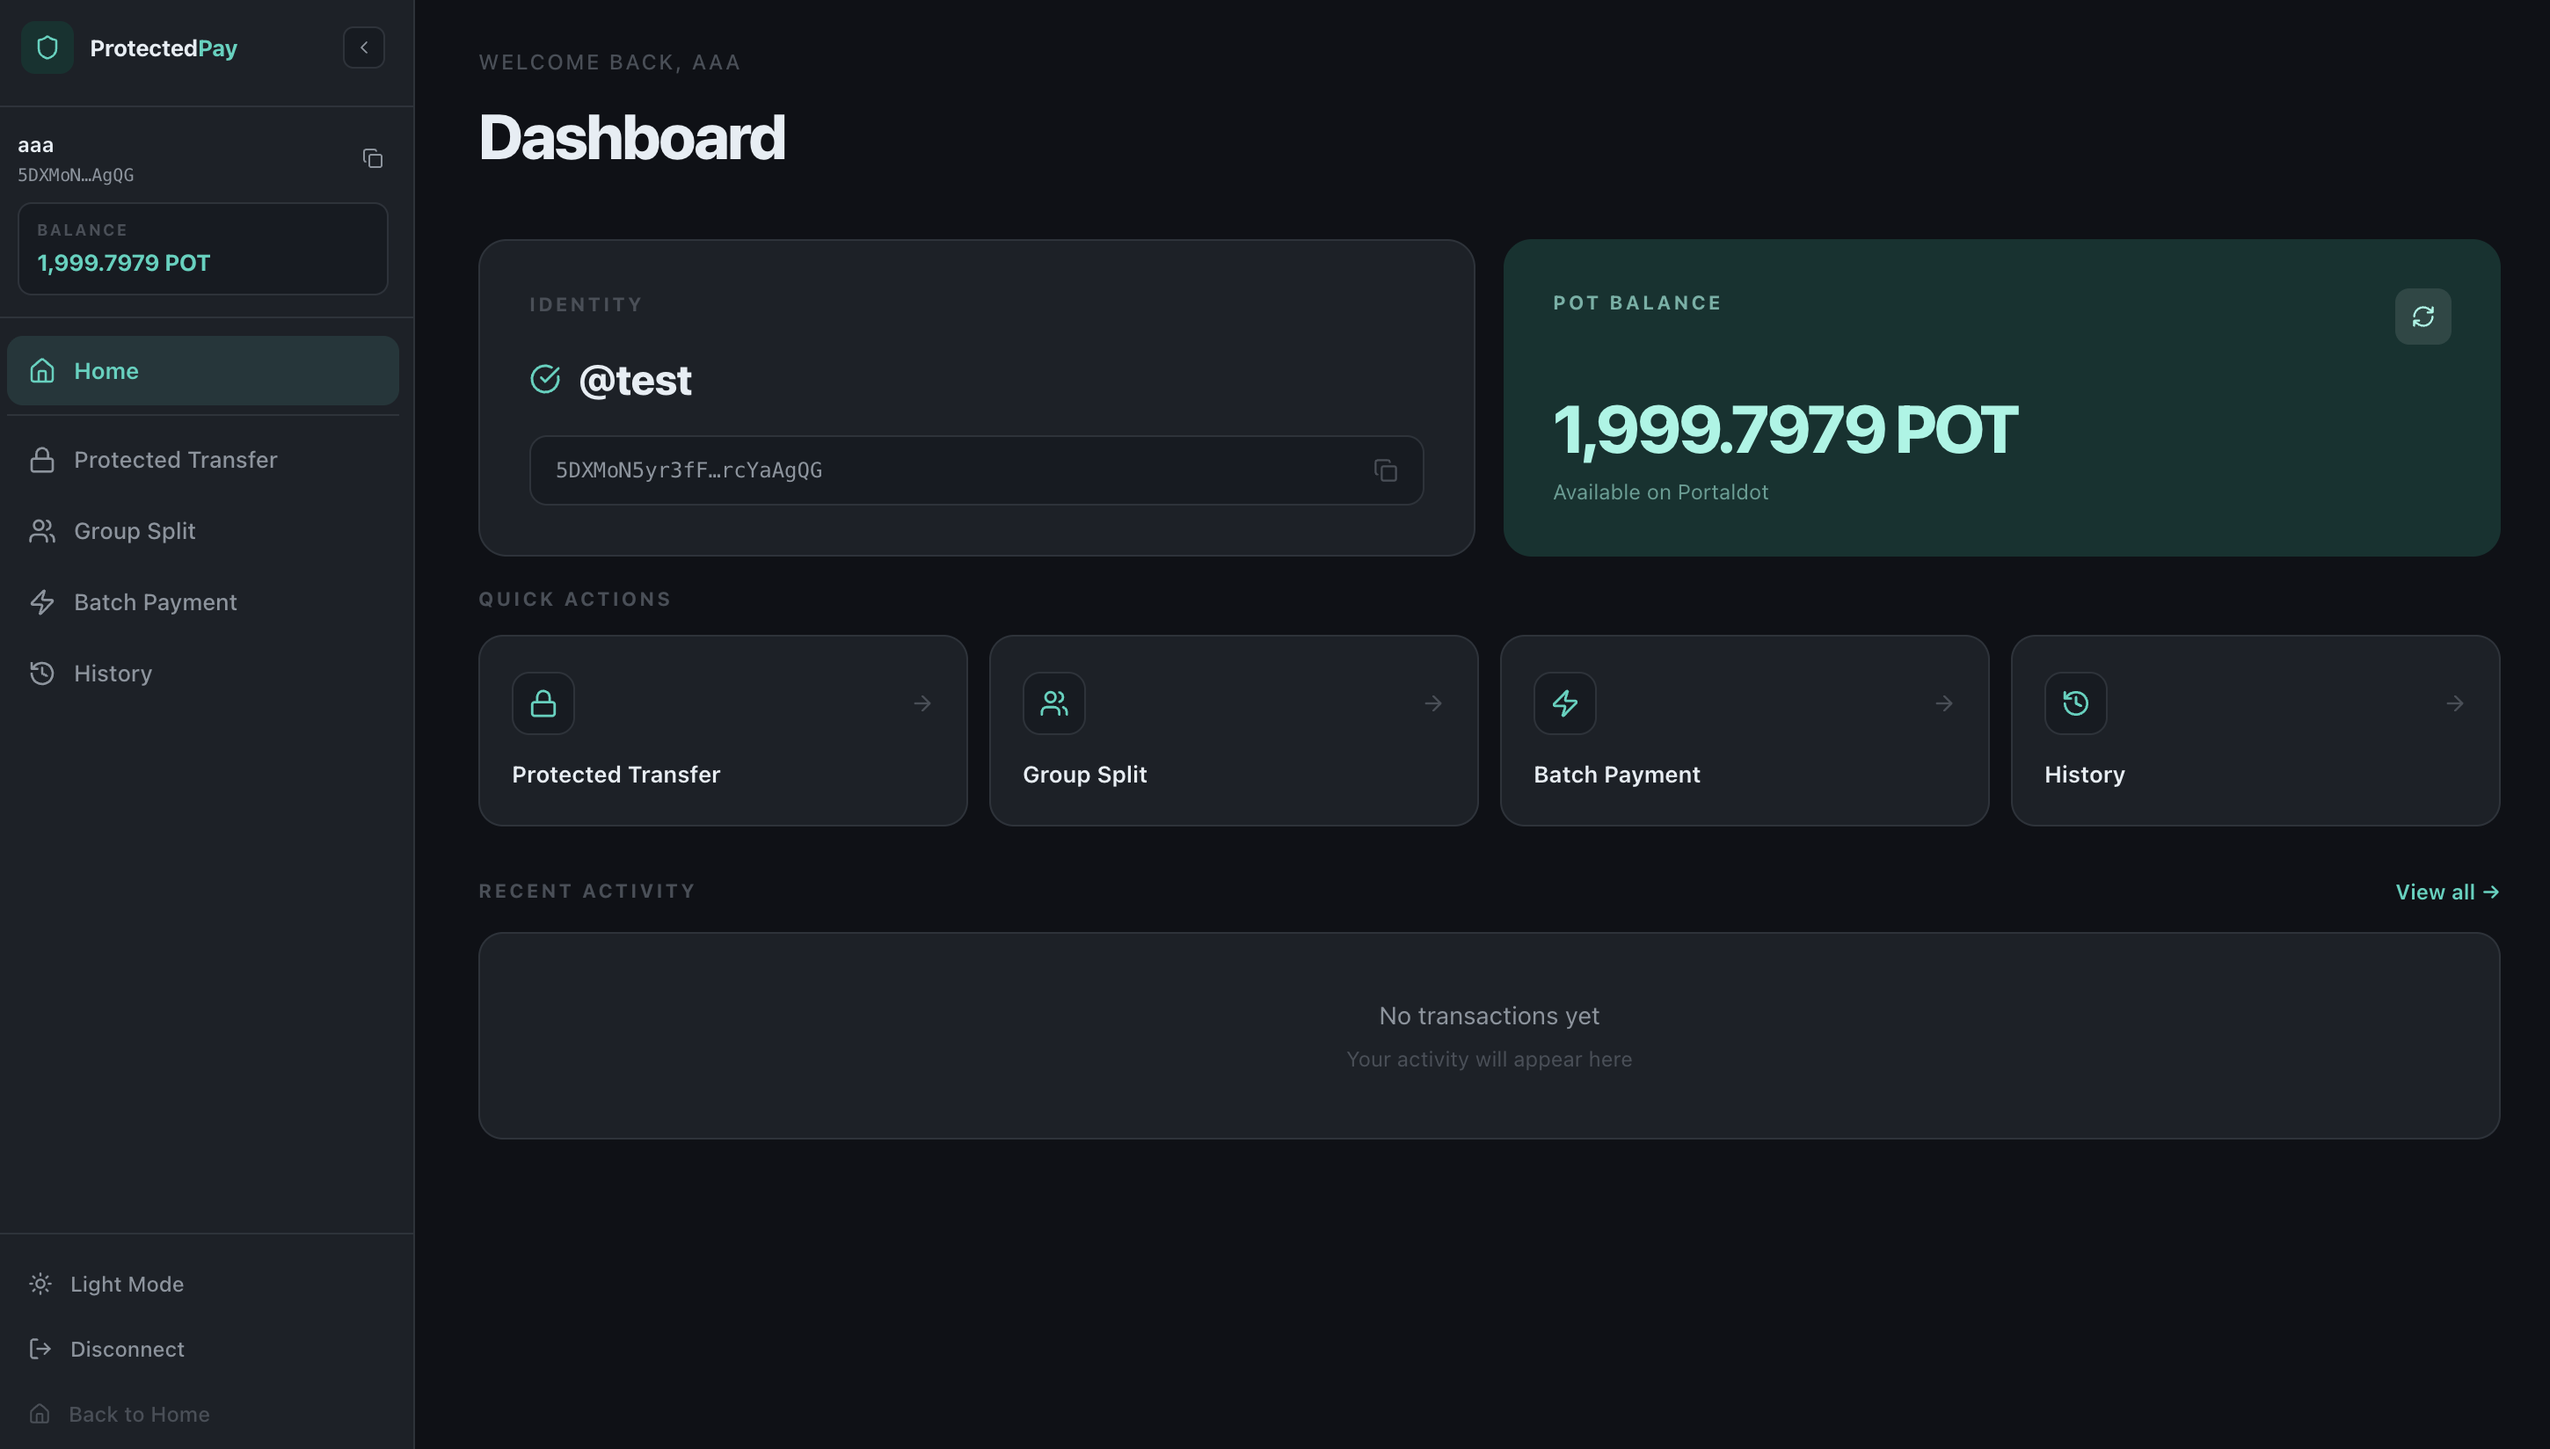
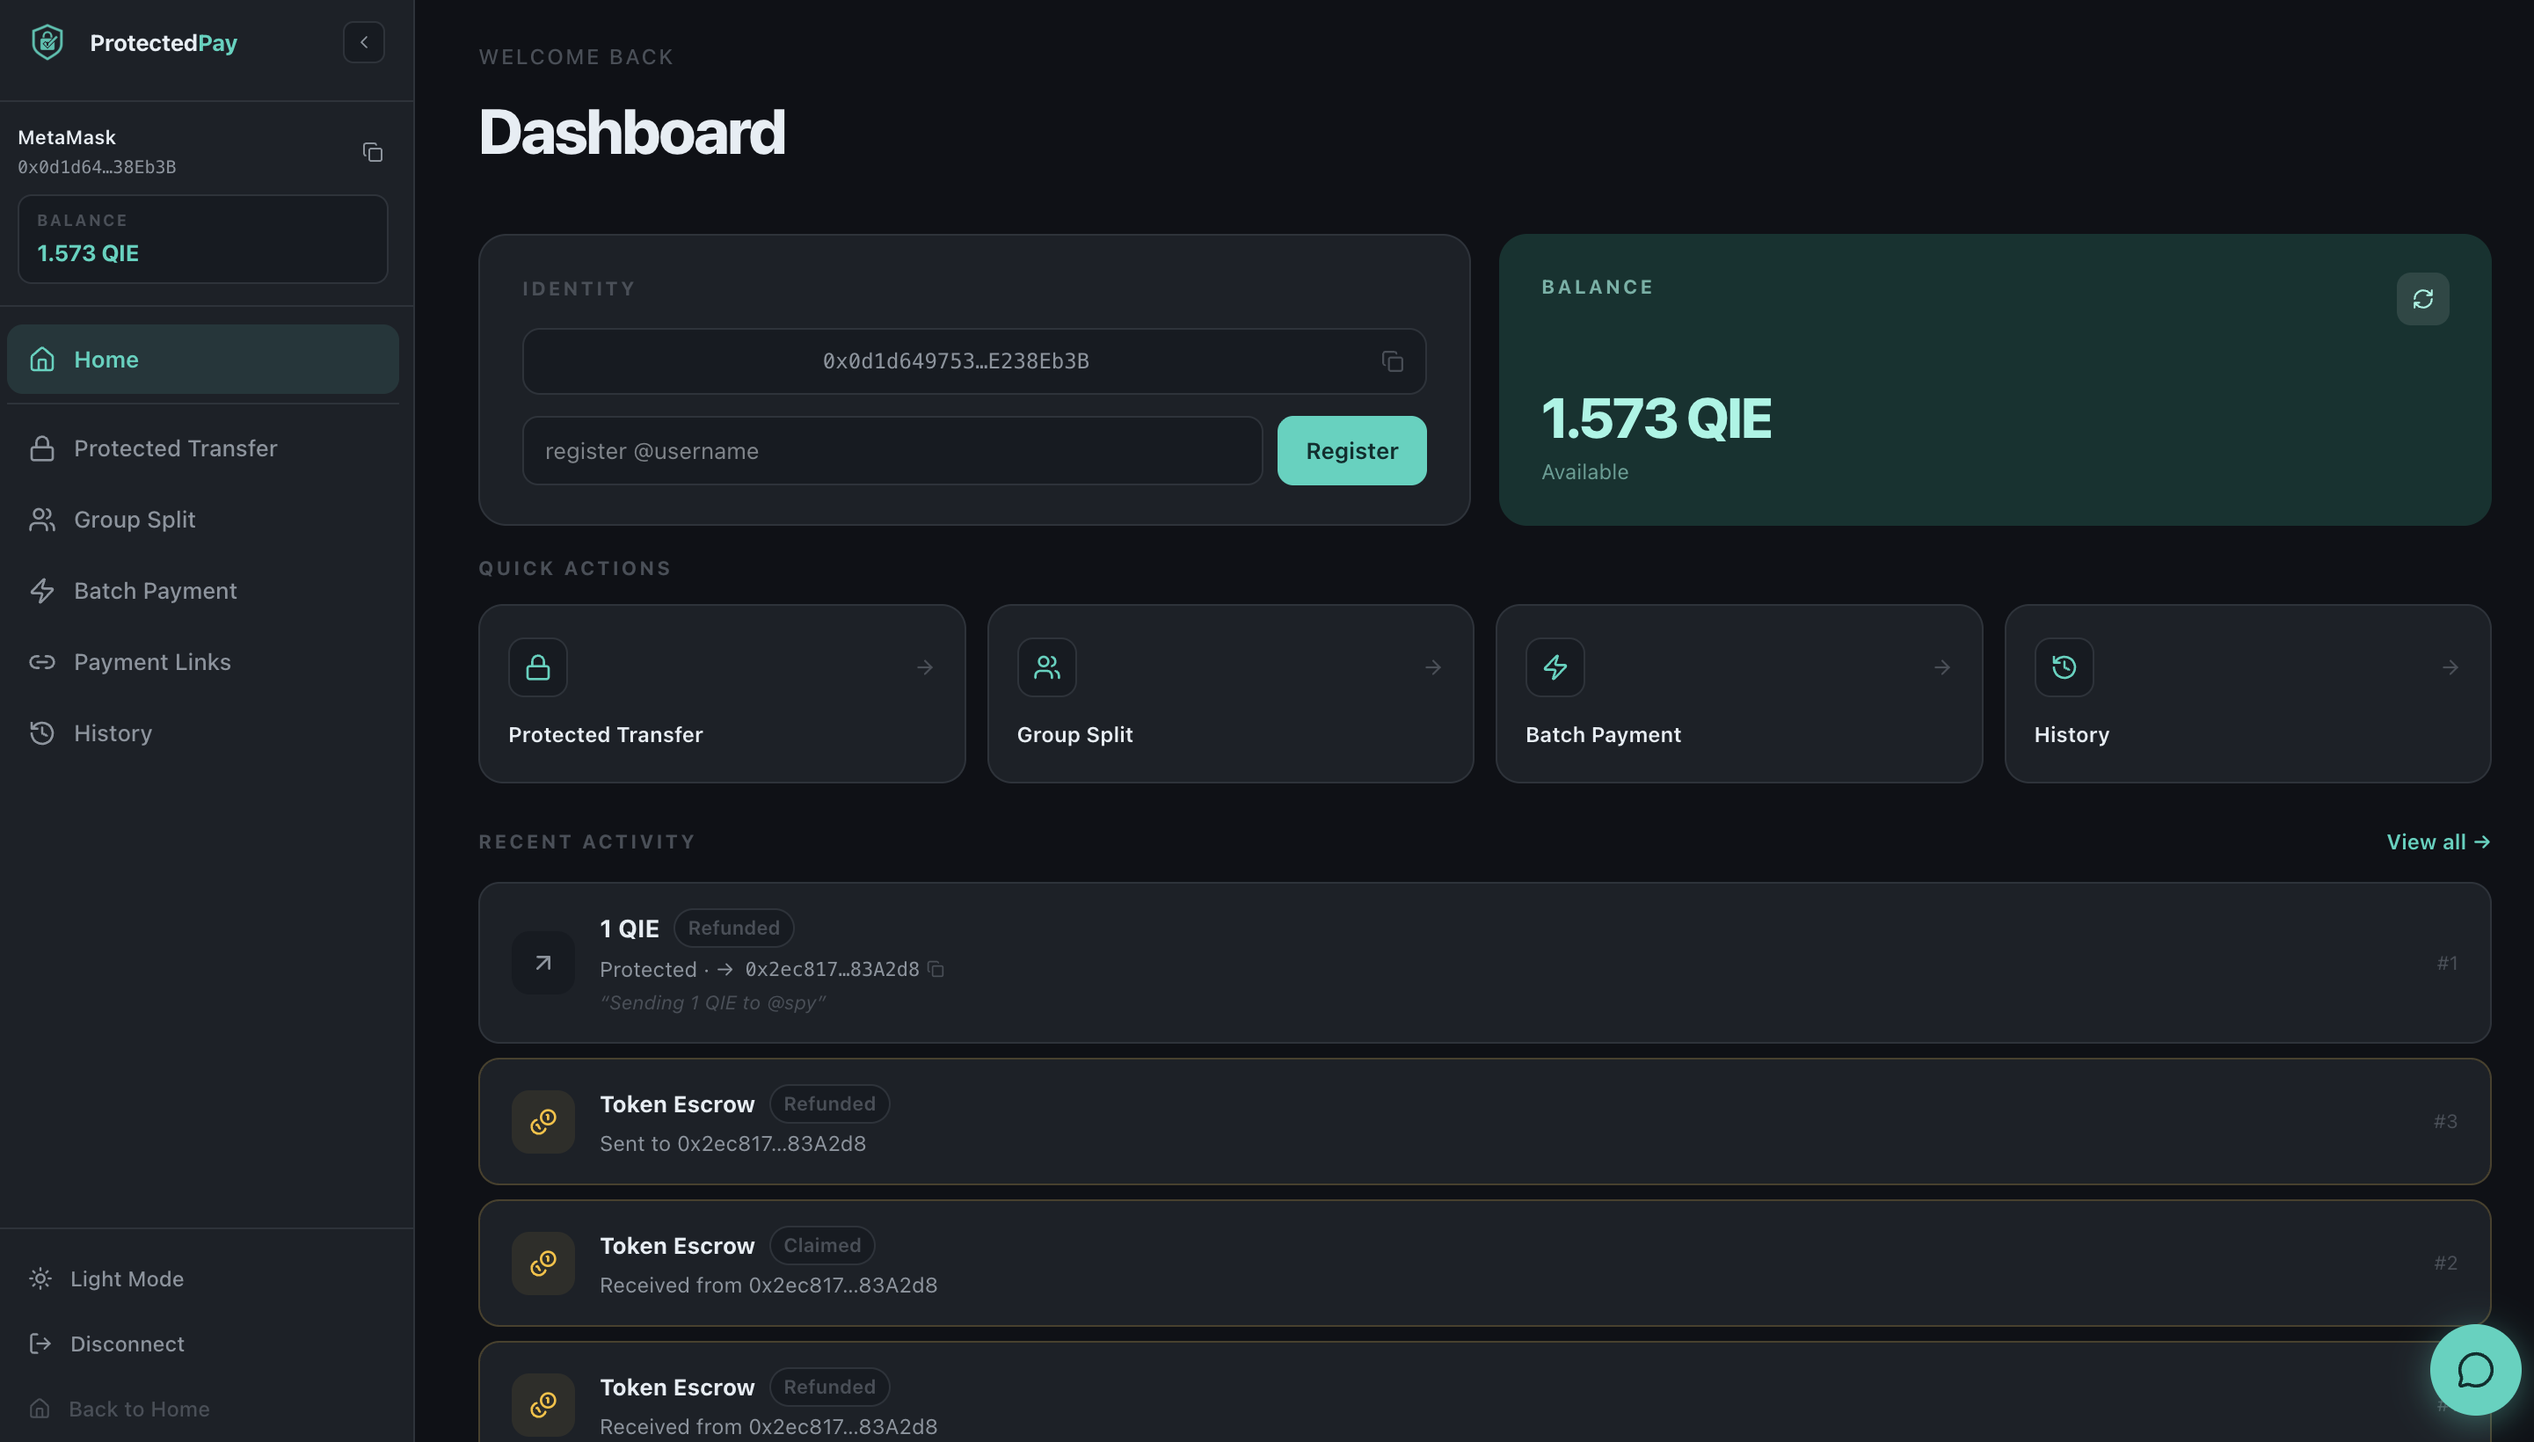
updated urls, fixed landing page chat issue

diff --git a/frontend/app/page.tsx b/frontend/app/page.tsx
@@ -207,7 +207,7 @@ export default function HomePage() {
               >
                 Launch App <ArrowRight size={17} />
               </Link>
-              <a href="https://x.com/protected_pay" target="_blank" rel="noopener noreferrer"
+              <a href="https://x.com/ProtectedPay_Qie" target="_blank" rel="noopener noreferrer"
                 style={{
                   display: 'inline-flex', alignItems: 'center', gap: 8,
                   padding: '14px 28px', borderRadius: 999,
@@ -429,7 +429,7 @@ export default function HomePage() {
               <span style={{ width: 1, height: 16, background: 'var(--border)' }} />
 
               {/* X / Twitter */}
-              <a href="https://x.com/protected_pay" target="_blank" rel="noopener noreferrer"
+              <a href="https://x.com/ProtectedPay_Qie" target="_blank" rel="noopener noreferrer"
                 style={{
                   display: 'flex', alignItems: 'center', justifyContent: 'center',
                   width: 34, height: 34, borderRadius: 8,

diff --git a/frontend/app/app/page.tsx b/frontend/app/app/page.tsx
@@ -6,6 +6,7 @@ import Sidebar, { AppTab } from './components/Sidebar';
 import ConnectScreen from './components/ConnectScreen';
 import HomePanel from './components/HomePanel';
 import dynamic from 'next/dynamic';
+import AgentChatWrapper from '../components/AgentChatWrapper';
 
 const EscrowContent  = dynamic(() => import('../escrow/page').then(m => ({ default: m.default })),  { ssr: false });
 const GroupContent   = dynamic(() => import('../group/page').then(m => ({ default: m.default })),   { ssr: false });
@@ -41,6 +42,7 @@ export default function AppPage() {
         {activeTab === 'links'     && <LinksContent />}
         {activeTab === 'history'   && <ProfileContent />}
       </main>
+      <AgentChatWrapper />
     </div>
   );
 }

diff --git a/frontend/app/layout.tsx b/frontend/app/layout.tsx
@@ -3,7 +3,6 @@ import './globals.css';
 import Providers from './components/Providers';
 import Navbar from './components/Navbar';
 import SmoothScroll from './components/SmoothScroll';
-import AgentChatWrapper from './components/AgentChatWrapper';
 
 export const metadata: Metadata = {
   title: 'ProtectedPay — Trustless Payments on QIE Testnet',
@@ -22,7 +21,6 @@ export default function RootLayout({ children }: { children: React.ReactNode }) 
           <Navbar />
           <SmoothScroll />
           {children}
-          <AgentChatWrapper />
         </Providers>
       </body>
     </html>
